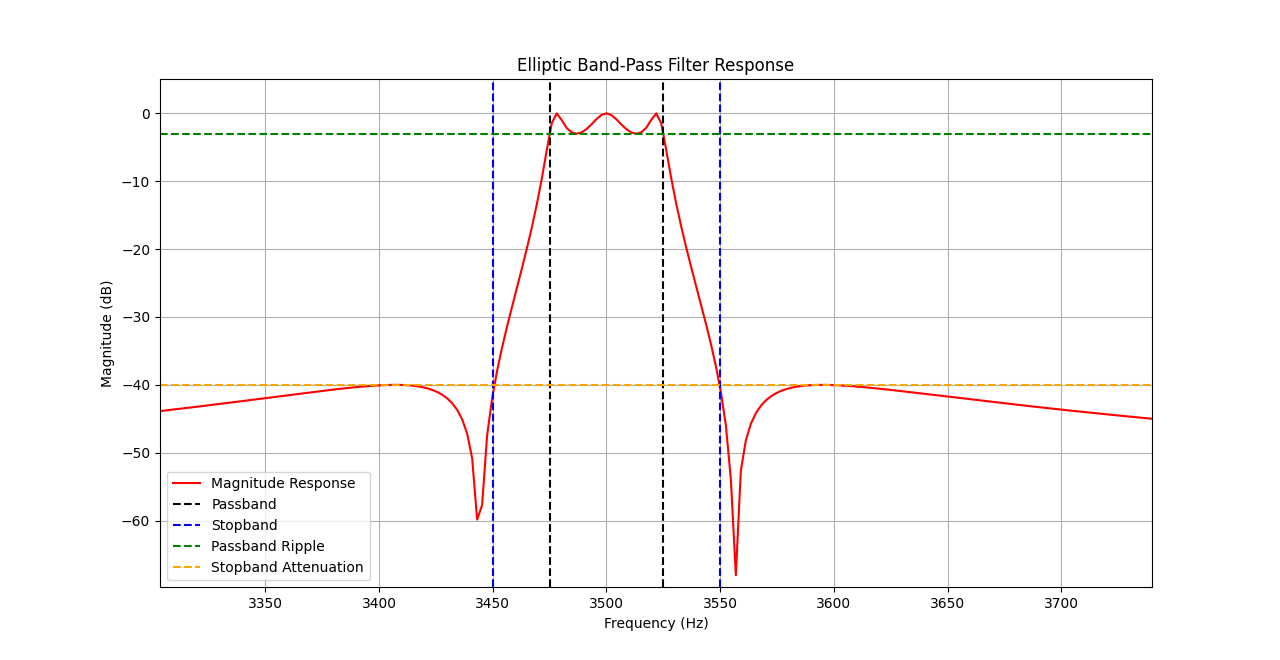
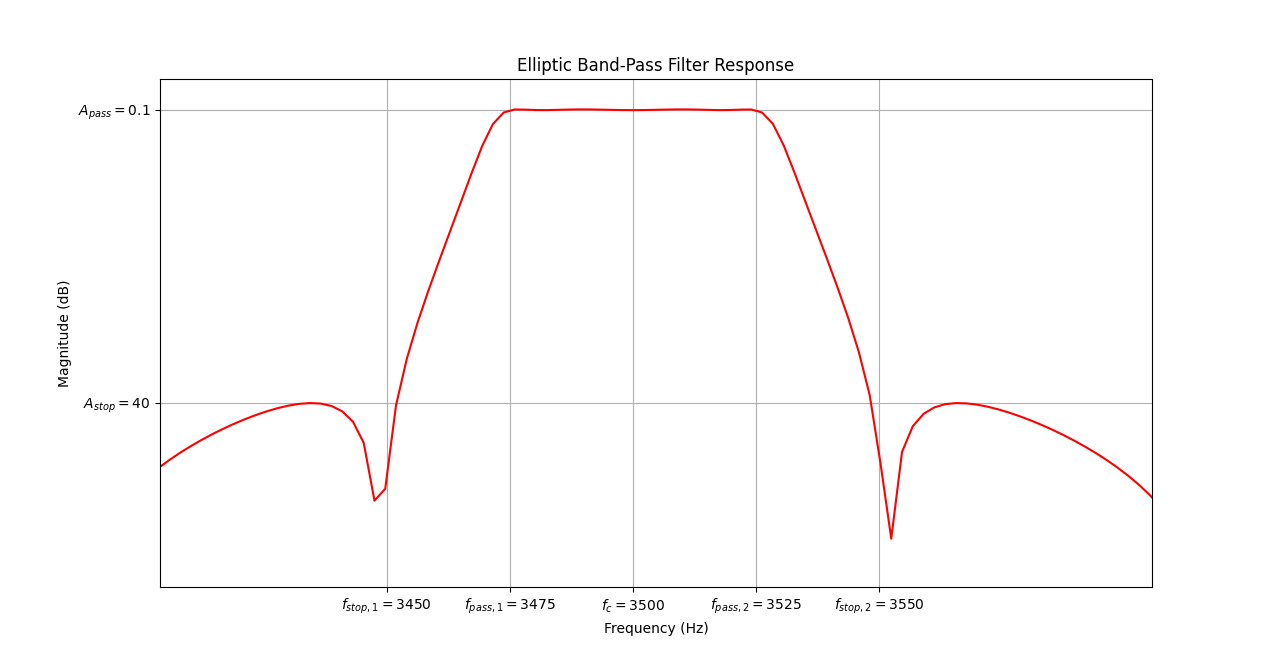
media and media programs

diff --git a/filters.py b/filters.py
@@ -1,0 +1,76 @@
+import numpy as np
+import matplotlib.pyplot as plt
+from scipy.signal import ellip, ellipord, freqz
+
+# Bandpass filter specifications
+fs = 35000  # Sampling frequency (arbitrary, ensure it's much higher than max frequency)
+fpass_bandpass = [3475, 3525]  # Passband frequencies (Hz)
+fstop_bandpass = [3450, 3550]  # Stopband frequencies (Hz)
+gpass_bandpass = 0.1  # Passband ripple (dB)
+gstop_bandpass = 40  # Stopband attenuation (dB)
+
+# Lowpass filter specifications
+fpass_lowpass = 50  # Passband edge frequency (Hz)
+fstop_lowpass = 75  # Stopband edge frequency (Hz)
+gpass_lowpass = 0.1  # Passband ripple (dB)
+gstop_lowpass = 40  # Stopband attenuation (dB)
+
+# Normalize frequencies for Bandpass filter
+wp_bandpass = np.array(fpass_bandpass) / (fs / 2)
+ws_bandpass = np.array(fstop_bandpass) / (fs / 2)
+
+# Normalize frequencies for Lowpass filter
+wp_lowpass = fpass_lowpass / (fs / 2)
+ws_lowpass = fstop_lowpass / (fs / 2)
+
+# Design Bandpass filter
+n_bandpass, wn_bandpass = ellipord(wp_bandpass, ws_bandpass, gpass_bandpass, gstop_bandpass)
+b_bandpass, a_bandpass = ellip(n_bandpass, gpass_bandpass, gstop_bandpass, wn_bandpass, btype='band')
+
+# Design Lowpass filter
+n_lowpass, wn_lowpass = ellipord(wp_lowpass, ws_lowpass, gpass_lowpass, gstop_lowpass)
+b_lowpass, a_lowpass = ellip(n_lowpass, gpass_lowpass, gstop_lowpass, wn_lowpass, btype='low')
+
+# Frequency response for Bandpass filter
+w_bandpass, h_bandpass = freqz(b_bandpass, a_bandpass, worN=8000)
+frequencies_bandpass = w_bandpass * fs / (2 * np.pi)
+
+# Frequency response for Lowpass filter
+w_lowpass, h_lowpass = freqz(b_lowpass, a_lowpass, worN=8000)
+frequencies_lowpass = w_lowpass * fs / (2 * np.pi)
+
+# Create a single plot with subplots
+fig, axs = plt.subplots(2, 1, figsize=(8, 8))
+
+# Bandpass filter response plot
+axs[0].plot(frequencies_bandpass, 20 * np.log10(abs(h_bandpass)), 'r', label='Magnitude Response')
+axs[0].set_title('Bandpass Filter Response')
+axs[0].set_xlabel('Frequency (Hz)')
+axs[0].set_ylabel('Magnitude (dB)')
+axs[0].set_xticks([fstop_bandpass[0], fpass_bandpass[0], 3500, fpass_bandpass[1], fstop_bandpass[1]], 
+           [r'$f_{{stop,1}}={}$'.format(fstop_bandpass[0]), 
+            r'$f_{{pass,1}}={}$'.format(fpass_bandpass[0]), 
+            r'$f_c={}$'.format(3500), 
+            r'$f_{{pass,2}}={}$'.format(fpass_bandpass[1]), 
+            r'$f_{{stop,2}}={}$'.format(fstop_bandpass[1])])
+axs[0].set_yticks([-gpass_bandpass, -gstop_bandpass], [r'$A_{{pass}}={}$'.format(gpass_bandpass), r'$A_{{stop}}={}$'.format(gstop_bandpass)])
+axs[0].grid()
+
+# Lowpass filter response plot
+axs[1].plot(frequencies_lowpass, 20 * np.log10(abs(h_lowpass)), 'r', label='Magnitude Response')
+axs[1].set_title('Lowpass Filter Response')
+axs[1].set_xlabel('Frequency (Hz)')
+axs[1].set_ylabel('Magnitude (dB)')
+axs[1].set_xticks([0, fstop_lowpass, fpass_lowpass], [r'0', r'$f_{{stop}}={}$'.format(fstop_lowpass), r'$f_{{pass}}={}$'.format(fpass_lowpass)])
+axs[1].set_yticks([-gpass_lowpass, -gstop_lowpass], [r'$A_{{pass}}={}$'.format(gpass_lowpass), r'$A_{{stop}}={}$'.format(gstop_lowpass)])
+axs[1].grid()
+
+# Adjust layout for better spacing
+plt.tight_layout()
+
+# Show plot
+plt.show()
+
+print(f'Sampling Frequency: {fs} Hz')
+print(f'Bandpass Stopband Edge Frequency: {fstop_bandpass[0]} Hz')
+print(f'Lowpass Stopband Edge Frequency: {fstop_lowpass} Hz')

diff --git a/elliptic.py b/elliptic.py
@@ -6,7 +6,7 @@ from scipy.signal import ellip, ellipord, freqz
 fs = 35000  # Sampling frequency (arbitrary, ensure it's much higher than max frequency)
 fpass = [3475, 3525]  # Passband frequencies (Hz)
 fstop = [3450, 3550]  # Stopband frequencies (Hz)
-gpass = 3  # Passband ripple (dB)
+gpass = 0.1  # Passband ripple (dB)
 gstop = 40  # Stopband attenuation (dB)
 
 # Normalize frequencies
@@ -24,15 +24,26 @@ frequencies = w * fs / (2 * np.pi)
 # Plot
 plt.figure(figsize=(8, 4))
 plt.plot(frequencies, 20 * np.log10(abs(h)), 'r', label='Magnitude Response')
-plt.axvline(fpass[0], color='k', linestyle='--', label='Passband')
-plt.axvline(fpass[1], color='k', linestyle='--')
-plt.axvline(fstop[0], color='b', linestyle='--', label='Stopband')
-plt.axvline(fstop[1], color='b', linestyle='--')
-plt.axhline(-gpass, color='g', linestyle='--', label='Passband Ripple')
-plt.axhline(-gstop, color='orange', linestyle='--', label='Stopband Attenuation')
+#plt.axvline(fpass[0], color='k', linestyle='--', label='Passband')
+#plt.axvline(fpass[1], color='k', linestyle='--')
+#plt.axvline(fstop[0], color='b', linestyle='--', label='Stopband')
+#plt.axvline(fstop[1], color='b', linestyle='--')
+#plt.axhline(-gpass, color='g', linestyle='--', label='Passband Ripple')
+#plt.axhline(-gstop, color='orange', linestyle='--', label='Stopband Attenuation')
 plt.title('Elliptic Band-Pass Filter Response')
 plt.xlabel('Frequency (Hz)')
 plt.ylabel('Magnitude (dB)')
+plt.xticks([fstop[0], fpass[0], 3500, fpass[1], fstop[1]], 
+           [r'$f_{{stop,1}}={}$'.format(fstop[0]), 
+            r'$f_{{pass,1}}={}$'.format(fpass[0]), 
+            r'$f_c={}$'.format(3500), 
+            r'$f_{{pass,2}}={}$'.format(fpass[1]), 
+            r'$f_{{stop,2}}={}$'.format(fstop[1])])
+
+
+plt.yticks([-gpass, -gstop], [r'$A_{{pass}}={}$'.format(gpass), r'$A_{{stop}}={}$'.format(gstop)])
 plt.grid()
-plt.legend()
+#plt.legend()
 plt.show()
+print(fs)
+print(fstop[0])

diff --git a/lp.py b/lp.py
@@ -1,0 +1,37 @@
+import numpy as np
+import matplotlib.pyplot as plt
+from scipy.signal import ellip, ellipord, freqz
+
+# Specifications for Lowpass Filter
+fs = 35000  # Sampling frequency (arbitrary, ensure it's much higher than max frequency)
+fpass = 50  # Passband edge frequency (Hz)
+fstop = 75  # Stopband edge frequency (Hz)
+gpass = 0.1  # Passband ripple (dB)
+gstop = 40  # Stopband attenuation (dB)
+
+# Normalize frequencies
+wp = fpass / (fs / 2)  # Passband normalized frequency
+ws = fstop / (fs / 2)  # Stopband normalized frequency
+
+# Design filter
+n, wn = ellipord(wp, ws, gpass, gstop)
+b, a = ellip(n, gpass, gstop, wn, btype='low')
+
+# Frequency response
+w, h = freqz(b, a, worN=8000)
+frequencies = w * fs / (2 * np.pi)
+
+# Plot
+plt.figure(figsize=(8, 4))
+plt.plot(frequencies, 20 * np.log10(abs(h)), 'r', label='Magnitude Response')
+plt.title('Elliptic Low-Pass Filter Response')
+plt.xlabel('Frequency (Hz)')
+plt.ylabel('Magnitude (dB)')
+plt.xticks([0, fstop, fpass], [r'0', r'$f_{{stop}}={}$'.format(fstop), r'$f_{{pass}}={}$'.format(fpass)])
+plt.yticks([-gpass, -gstop], [r'$A_{{pass}}={}$'.format(gpass), r'$A_{{stop}}={}$'.format(gstop)])
+plt.grid()
+plt.legend()
+plt.show()
+
+print(f'Sampling Frequency: {fs} Hz')
+print(f'Stopband Edge Frequency: {fstop} Hz')

diff --git a/xmw_mag.py b/xmw_mag.py
@@ -1,0 +1,21 @@
+import numpy as np
+import matplotlib.pyplot as plt
+
+# Parameters
+wc = 3500  # Center frequency (Hz)
+f = np.linspace(-7000, 7000, 1000)  # Frequency range
+
+# Sinc functions (normalize by pi for np.sinc)
+sinc1 = np.sinc((f - wc) / 1000)  # Divide by 1000 to normalize to \(\pi\)
+sinc2 = np.sinc((f + wc) / 1000)
+
+# Plot
+plt.plot(f, np.abs(sinc1), label=r'$\omega_c$', color='blue')
+plt.plot(f, np.abs(sinc2), label=r'$-\omega_c$', color='red')
+plt.title("Magnitude Spectra of Two Sinc Functions")
+plt.xlabel("Frequency (Hz)")
+plt.ylabel("Magnitude")
+plt.xticks([-wc, 0, wc], [r'$-\omega_c$', r'0', r'$\omega_c$'])
+#plt.legend()
+plt.grid()
+plt.show()
